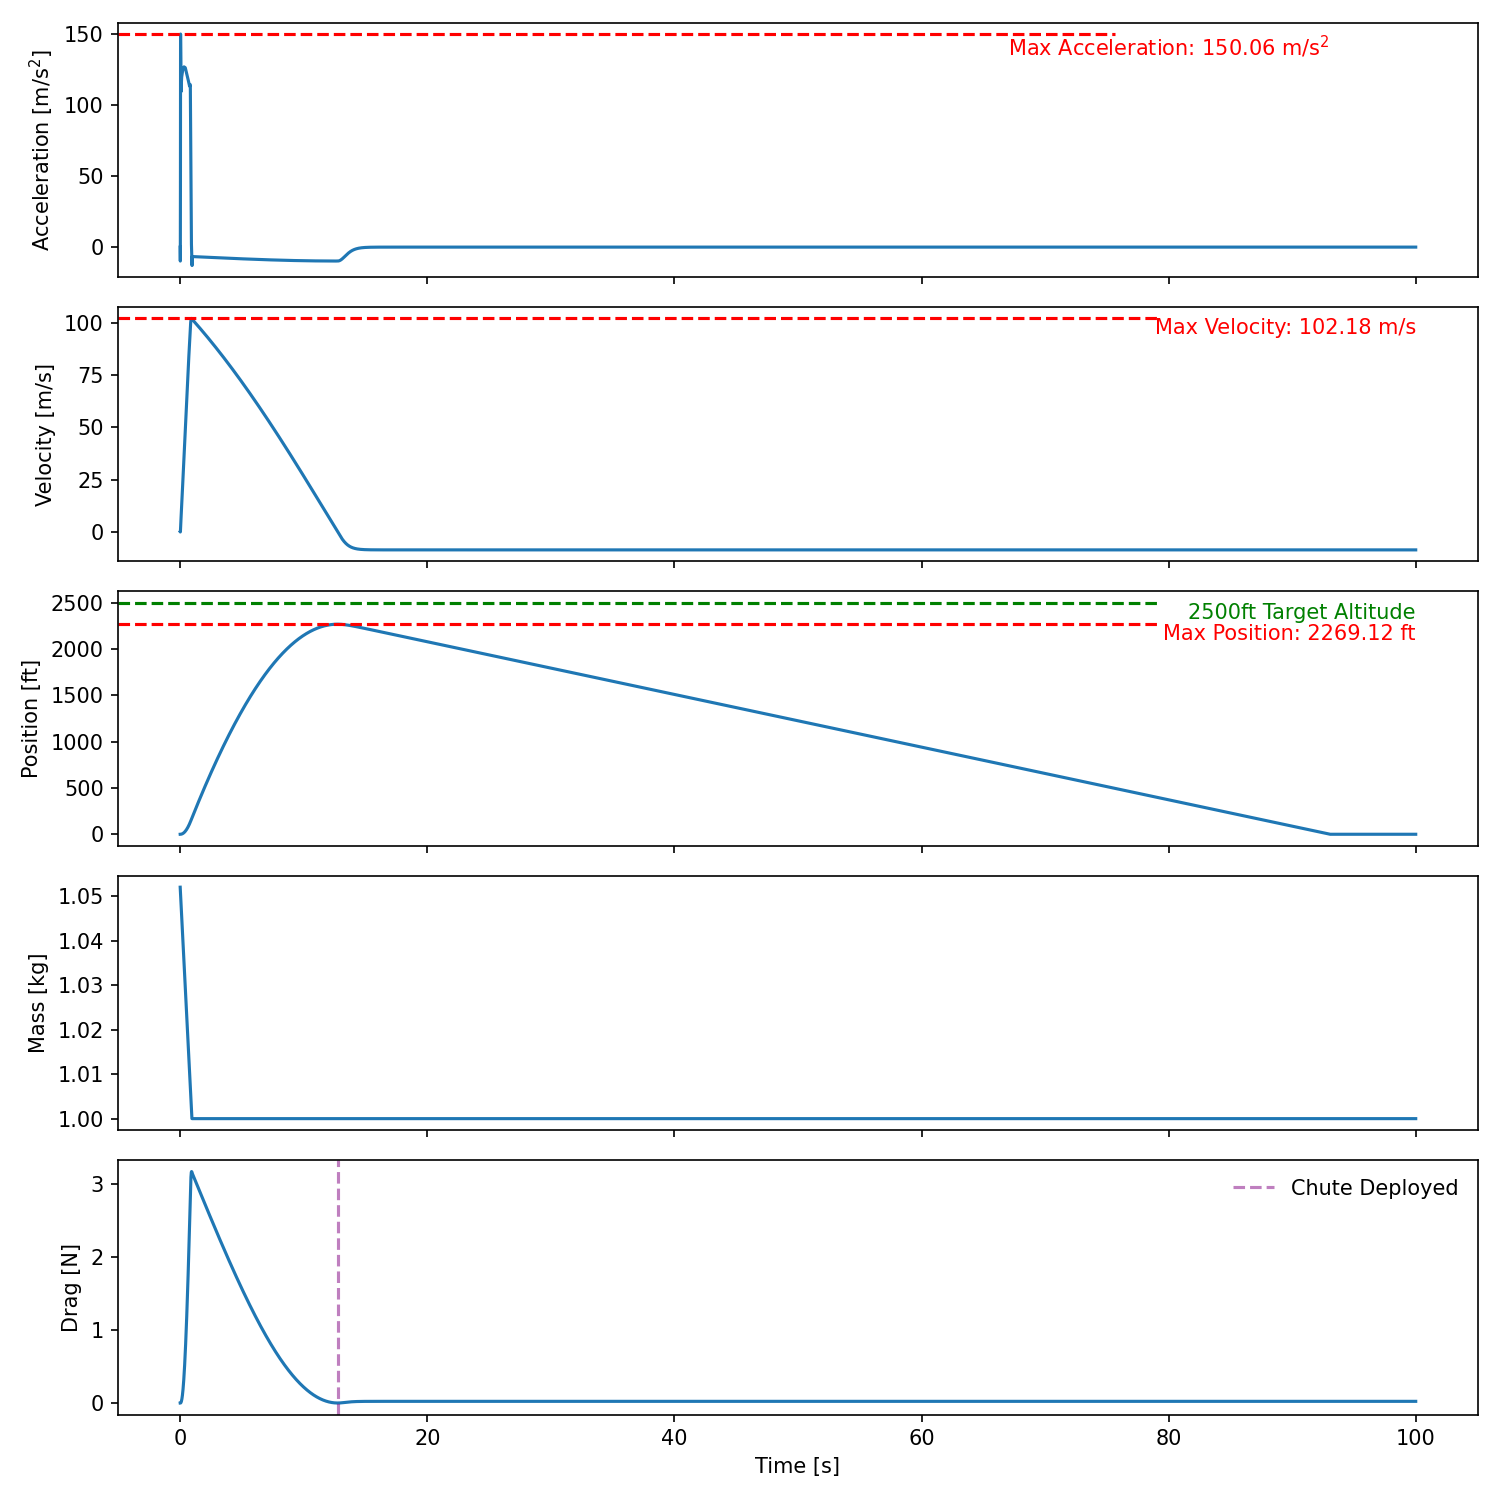
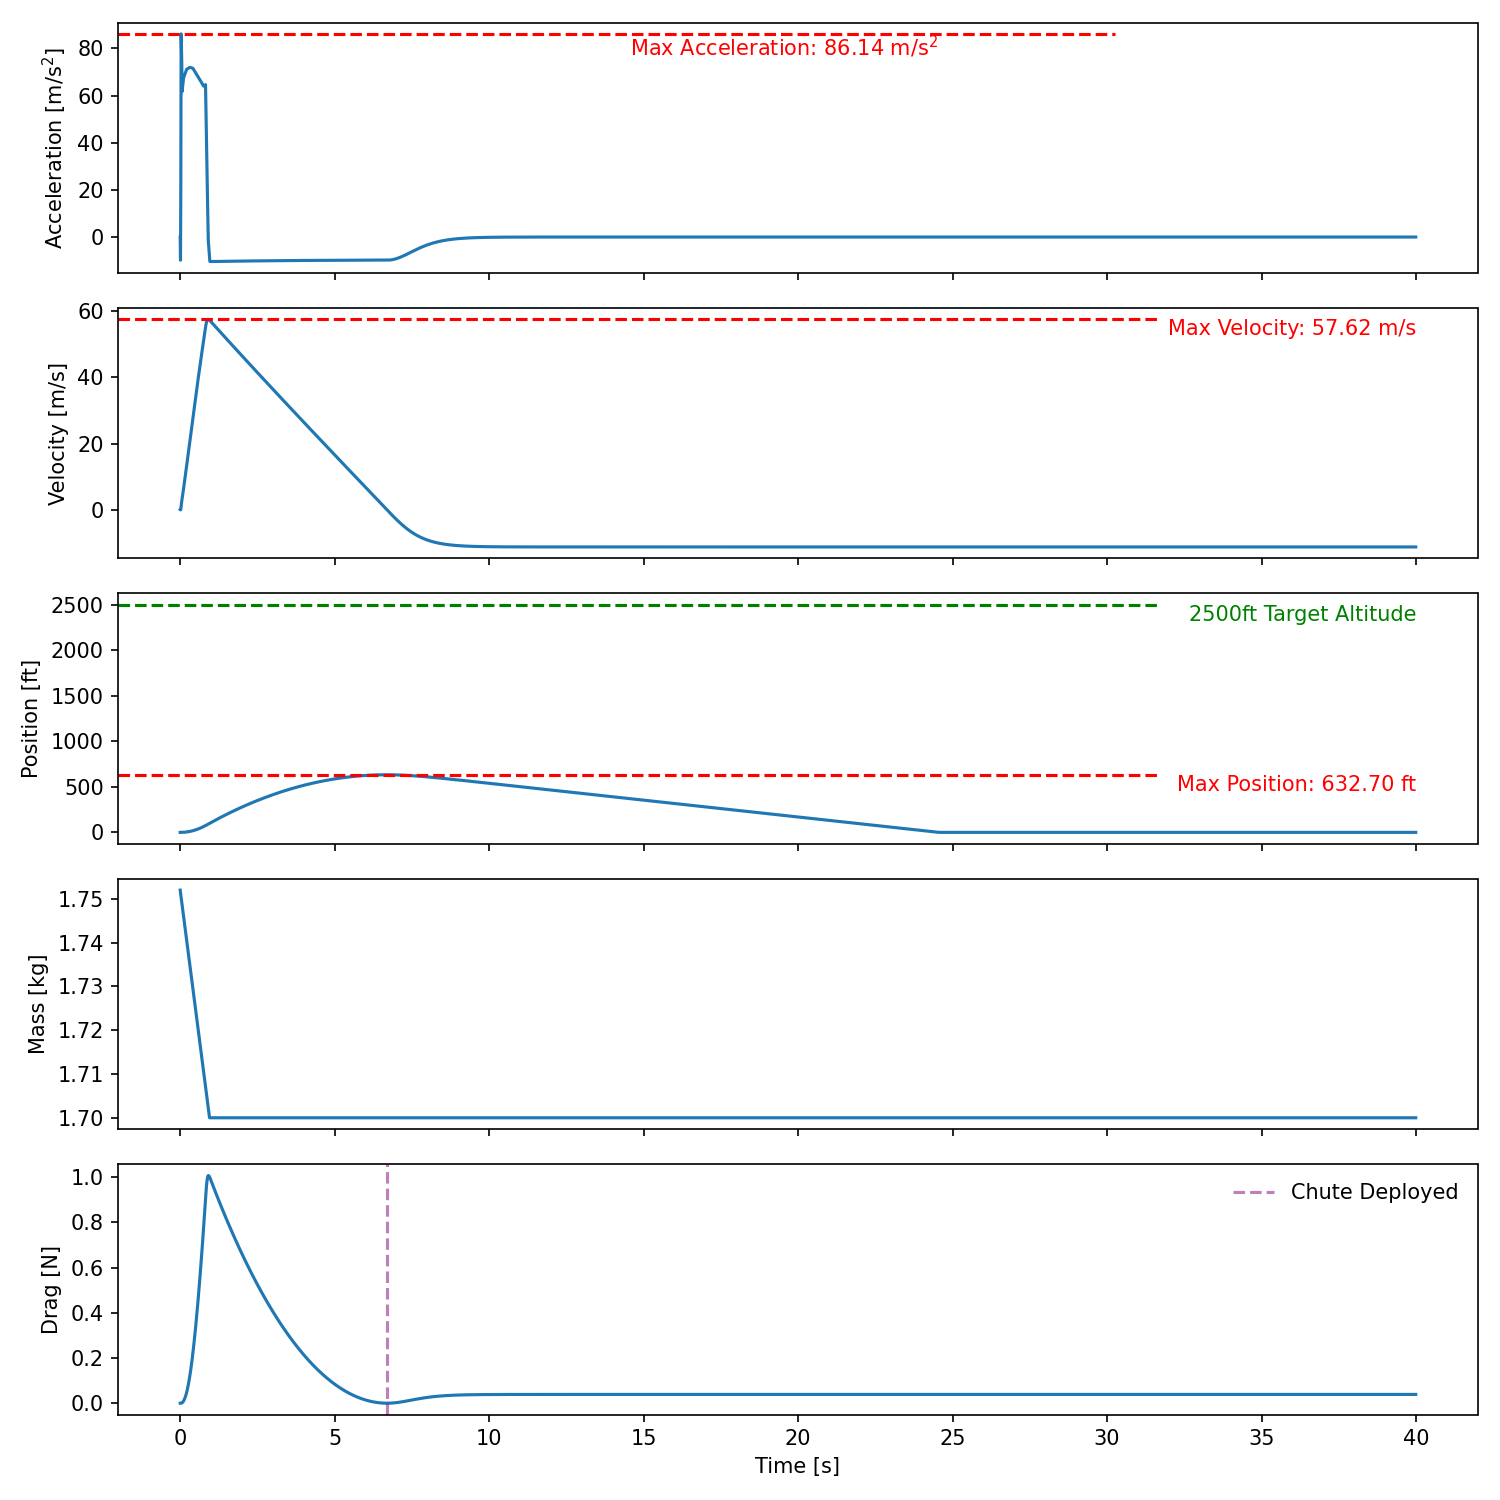
update comments and fix drag direction

diff --git a/Simulation/Simulation.py b/Simulation/Simulation.py
@@ -4,10 +4,18 @@ import pandas as pd
 from scipy.interpolate import interp1d
 
 # Thrust Curve
-thrust = pd.read_csv('Simulation/Thrust_curve.csv', skiprows=3)
-m_propellant = 52/1000  # kg
+thrust = pd.read_csv('Simulation/Thrust_curve.csv', skiprows=3) # read thrust curve data
+m_propellant = 52/1000  # mass of propellant in kg from details
+
+# interpolating the thrust curve to get thrust at any time, with '0' values after burnout
 t_interp = interp1d(thrust['Time (s)'], thrust['Thrust (N)'], kind='linear', fill_value=(0,0), bounds_error=False)
+
+# assume linear fuel burn throughout the burn time
 fuel_mass_rate =  m_propellant/thrust['Time (s)'].max()
+
+
+
+# Plotting thrust curve
 
 # plt.plot(thrust['Time (s)'], thrust['Thrust (N)'])
 # plt.xlabel('Time (s)')
@@ -16,18 +24,17 @@ fuel_mass_rate =  m_propellant/thrust['Time (s)'].max()
 # plt.show()
 
 # Rocket Parameters
-m_dry = 1  # kg
-# print('Total mass: ',m_dry + m_propellant)  # kg
-area = np.pi * (0.029/2)**2  # m^2
-chute_area = np.pi * 0.3**2  # m^2
+m_dry = 1.7  # mass of rocket without propellant but including motor casing, electronics, etc. in kg
+area = np.pi * (0.029/2)**2  # frontal area of rocket for drag calculation in m^2
+chute_area = np.pi * 0.3**2  # parachute area in m^2
 Cd = 0.75  # drag coefficient
 
 # Simulation Parameters
-dt = 0.01  # s
-simulation_time = 100  # s
-t = np.arange(0, simulation_time, dt)
+dt = 0.01  # time step in seconds
+simulation_time = 40  # total simulation time
+t = np.arange(0, simulation_time, dt) # array of time steps at which to calculate the rocket's state
 
-# Initial Conditions
+# Initial Conditions - create arrays and give initial values
 acceleration = [0]
 velocity = [0]
 position = [0]
@@ -37,36 +44,41 @@ chute = [False]
 
 # Simulation
 for i in range(len(t)-1):
-    F_thrust = t_interp(t[i])
-    F_drag = 0.5 * 1.225 * Cd * area * velocity[i]**2
-    F_chute = 0.5 * 1.225 * Cd * chute_area * velocity[i]**2
-    F_gravity = 9.80665 * mass[i]
-    if mass[i] > m_dry:
-        F_net = F_thrust - (F_gravity + F_drag)
-        chute.append(False)
-    else:
-        if np.gradient(position)[-1]<=0:
-            F_net = F_chute + F_drag - F_gravity
-            chute.append(True)
+    F_thrust = t_interp(t[i]) # get thrust at time t[i]
+    F_drag = 0.5 * 1.225 * Cd * area * velocity[i]**2 # drag force
+    F_chute = 0.5 * 1.225 * Cd * chute_area * velocity[i]**2 # additional drag from chute
+    F_gravity = 9.80665 * mass[i] # force due to gravity
+    if mass[i] > m_dry: # if there is still propellant left
+        F_net = F_thrust - (F_gravity + F_drag) # net force
+        chute.append(False) # chute not deployed (just for tracking not used in simulation)
+    else: # if all propellant has been used
+        if np.gradient(position)[-1]<=0: # if past apogee (could use if velocity[i] < 0 but idky i chose this)
+            F_net = F_chute + F_drag - F_gravity # include chute drag if descending
+            chute.append(True) # chute deployed (just for tracking not used in simulation)
         else:
-            F_net = F_drag - F_gravity
-            chute.append(False)
+            F_net = -F_drag - F_gravity # ascending and decelerating
+            chute.append(False) # chute not deployed (just for tracking not used in simulation)
 
-    a = F_net / mass[i]
-    v = velocity[i] + (a * dt)
-    x = np.max([position[i] + (v * dt), 0])
-    m = np.max([mass[i] - (fuel_mass_rate * dt), m_dry])
+    a = F_net / mass[i] # calculate acceleration
+    v = velocity[i] + (a * dt) # calculate new velocity
+    x = np.max([position[i] + (v * dt), 0]) # calculate new position, ensuring it doesn't go below 0
+    m = np.max([mass[i] - (fuel_mass_rate * dt), m_dry]) # calculate new mass, ensuring it doesn't go below m_dry
     
+    # append new values to arrays
     drag.append(F_drag)
     acceleration.append(a)
     velocity.append(v)
     position.append(x)
     mass.append(m)
 
+# find apogee, descent rate and total flight time
 xlim = t[np.where(np.gradient(position)==0)[0][1]]
 print('Time to Apogee:', t[np.where(np.array(position)==np.max(position))[0][0]], 's')
 print('Time to ground: ', xlim, 's')
 print('Descent Rate: ', np.min(velocity), 'm/s')
+
+
+# Plotting
 
 fig, ax = plt.subplots(5, 1, dpi=150, figsize=(10, 10), sharex=True)
 
